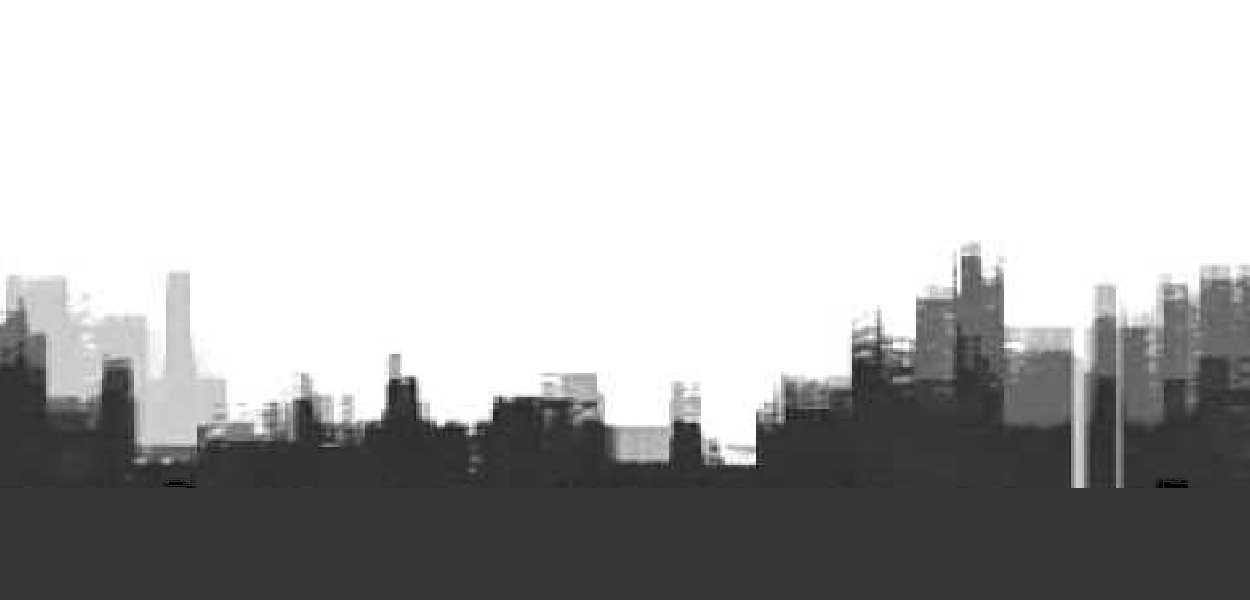
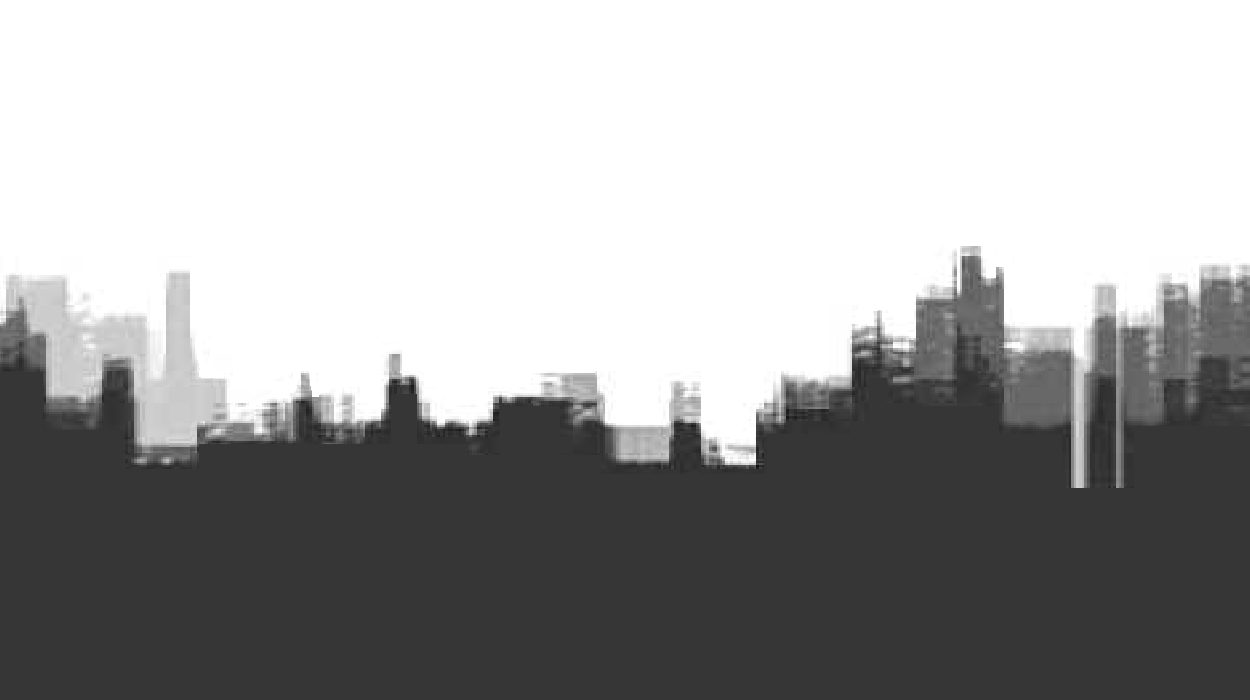
trocando sprites

Changed region(s): [[0.0, 0.33, 1.0, 0.81], [0.936, 0.78, 0.9672, 0.81]]

diff --git a/script.js b/script.js
@@ -47,23 +47,23 @@ function create ()
     // *** Cenário ***
     
     // background
-    this.add.image(400, 300, 'sky');
-    this.add.image(1600, 300, 'sky');
-    this.add.image(2800, 300, 'sky');
-    this.add.image(4000, 300, 'sky');
-    this.add.image(5200, 300, 'sky');
+    this.add.image(400,  330, 'sky');
+    this.add.image(1600, 330, 'sky');
+    this.add.image(2800, 330, 'sky');
+    this.add.image(4000, 330, 'sky');
+    this.add.image(5200, 330, 'sky');
     
     platforms = this.physics.add.staticGroup();
     chao = this.physics.add.staticGroup();
     
     // chão
-    platforms.create(400, 568, 'chao').setScale(2).refreshBody();
-    platforms.create(1100, 568, 'chao').setScale(2).refreshBody();
-    platforms.create(2500, 568, 'chao').setScale(2).refreshBody();
-    platforms.create(3500, 568, 'chao').setScale(2).refreshBody();
+    platforms.create(400, 670,  'chao').setScale(2).refreshBody();
+    platforms.create(1100, 670, 'chao').setScale(2).refreshBody();
+    platforms.create(2500, 670, 'chao').setScale(2).refreshBody();
+    platforms.create(3500, 670, 'chao').setScale(2).refreshBody();
     
     // plataformas
-    platforms.create(600, 450, 'ground');
+    platforms.create(600, 550,  'ground');
     platforms.create(1000, 350, 'ground');
     platforms.create(1400, 250, 'ground');
     platforms.create(2050, 350, 'ground');
@@ -160,7 +160,7 @@ function update (){
 
     scoreText.x = player.x;
     
-    if(player.y > 650){
+    if(player.y > 630){
 
         morrer();
     }
@@ -228,7 +228,7 @@ function encostarBiblia(player, biblia){
 
     if(vida <= 0){
 
-        //morrer();
+        morrer();
     }
 }
 
